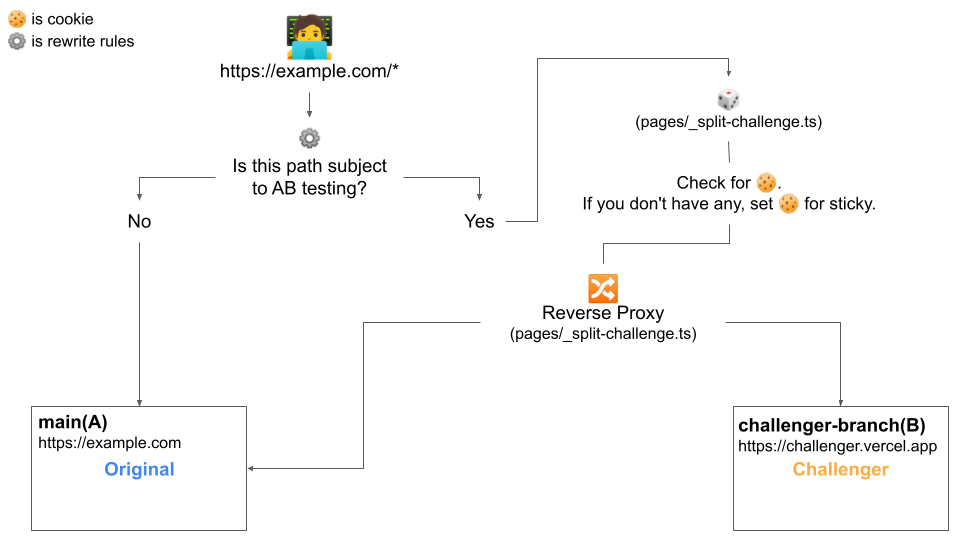
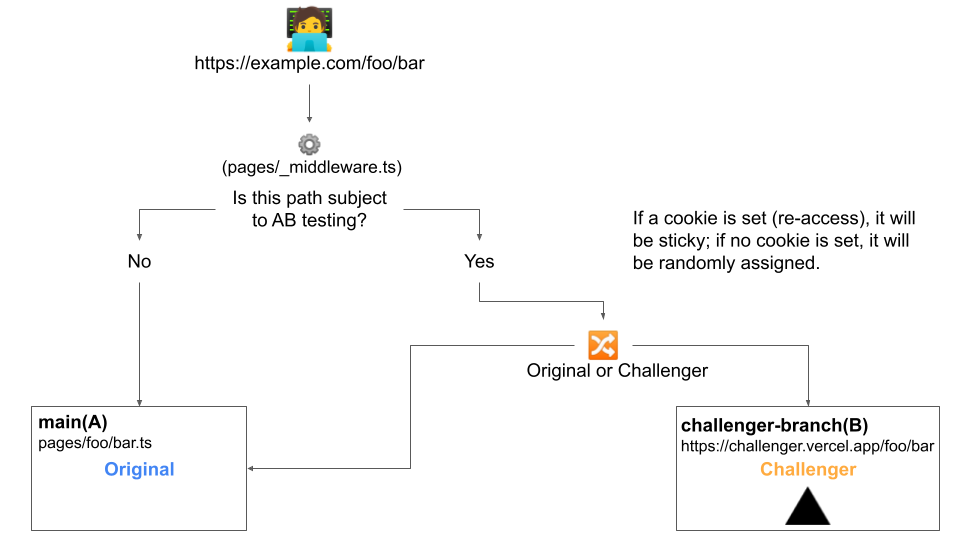
docs: update README

diff --git a/README.md b/README.md
@@ -9,11 +9,7 @@
 It enables branch-based split testing (A/B testing) on Vercel and other providers, just like the Netify's [Split Testing](https://docs.netlify.com/site-deploys/split-testing/).
 
 This plugin lets you divide traffic to your site between different deploys, straight from CDN network. It is not the traditional split testing on a per-component or per-page file basis.   
-You deploy the main branch (original) and the branch derived from it (challenger) on Vercel and other providers, and use Next.js Rewrite Rules and Cookies to separate two or more environments. Since there is no need to duplicate code, it is easier to manage and prevents the bundle size from increasing.
-
-## [Spectrum](https://spectrum-kappa.vercel.app/)
-
-[Spectrum](https://spectrum-kappa.vercel.app/) enables you to control your A/B testing from a web console. Please give it a try.
+You deploy the main branch (original) and the branch derived from it (challenger) on Vercel and other providers, and use Next.js middleware and cookies to separate two or more environments. Since there is no need to duplicate code, it is easier to manage and prevents the bundle size from increasing.
 
 ## How it works
 
@@ -21,13 +17,11 @@ You deploy the main branch (original) and the branch derived from it (challenger
 
 ![How it works 02](https://github.com/aiji42/next-with-split/blob/main/readme/02.png?raw=true)
 
-:bulb: In getServerSideProps, it is running an http(s) server to act as a reverse proxy.
-
-Note: Vercel is used as an example, but other providers are supported after v2.5.
-
 ## Require
 
 - Using Next.js >=12
+
+his plugin depends on the middleware of Next.js v12. If you are using Next.js v11 or earlier, please use next-with-split [v3](https://www.npmjs.com/package/next-with-split/v/3.3.2).
 
 ## Installation
 
@@ -36,7 +30,7 @@ npm install --save next-with-split
 ```
 
 ## Usage
-1\. Customize next.config.js. (in main branch)
+1\. Customize `next.config.js` and `pages/_middleware.js`. (in main branch)
 ```js
 // next.config.js
 const withSplit = require('next-with-split')({})
@@ -44,6 +38,24 @@ const withSplit = require('next-with-split')({})
 module.export = withSplit({
   // write your next.js configuration values.
 })
+```
+
+```js
+// pages/_middleware.js
+export { middleware } from 'next-with-split'
+```
+If your A/B testing is limited, `_middleware.js` can be placed under the directory of the target page ([Next.js middleware](https://nextjs.org/docs/middleware))
+
+If you already have middleware code, please refer to the following.
+```js
+// pages/_middleware.js
+import { middleware as withSplit } from 'next-with-split'
+
+export const middleware = (req) => {
+  const res = withSplit(req)
+  // write your middleware code
+  return res
+}
 ```
 
 2\. Derive a branch from the main branch as challenger. 
@@ -68,7 +80,7 @@ const withSplit = require('next-with-split')({
     },
     // Multiple A/B tests can be run simultaneously.
     example2: {
-      path: '/bar/:path*',
+      path: '/bar/*',
       hosts: {
         original: 'example.com',
         'challenger-for-example2': 'challenger-for-example2.vercel.app',
